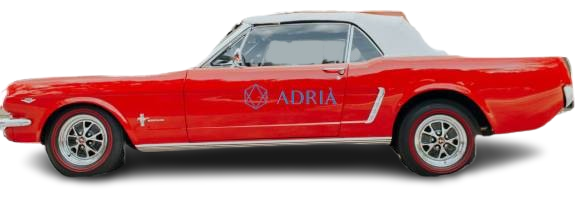
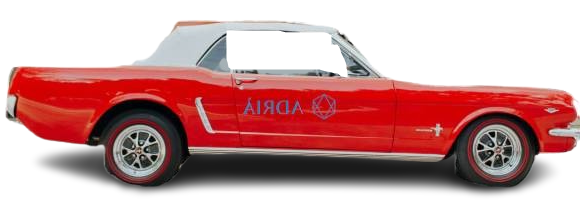
Afegir css amb el gif movent-se

diff --git a/css/style.css b/css/style.css
@@ -1,10 +1,34 @@
-html, body {
-    height: 100%;
-    max-width: 1200px;
-    margin: 2% auto;
-    padding: 0;
+body {
+    margin: 0;
+    overflow: hidden;
 }
 
-h1 {
-    font-size: 2em;
+#ex1 {
+    width: 100vw; /* Ancho del 100% del viewport (pantalla) */
+    height: auto;
+    position: relative;
+    overflow: hidden;
+}
+
+#ex1 img:nth-child(2) {
+    position: absolute;
+    bottom: 0;
+    left: 0;
+    animation: moveCar 4s linear infinite;
+    width: 40%; /* Ajusta el ancho según sea necesario */
+}
+
+@keyframes moveCar {
+    0% {
+        transform: translateX(-120%); /* Inicia fuera del panel para que no aparezca abruptamente */
+    }
+    100% {
+        transform: translateX(120%); /* Ajusta según el ancho del panel */
+    }
+}
+
+/* Ajusta el tamaño según sea necesario */
+#ex1 img:nth-child(2) {
+    max-width: 100%;
+    height: auto;
 }

diff --git a/index.html b/index.html
@@ -12,9 +12,11 @@
     <h2>Exercici 1</h2>
     <div id="ex1">
         <img src="img/banner.jpg" alt="">
-        <img src="img/carEditado.jpg" alt="">
+        <img src="img/car.gif" alt="">
     </div>
     <h2>Exercici 2</h2>
-    <div id="ex2">Implementeu aquí l'exercici 2</div>
+    <div id="ex2">
+        
+    </div>
 </body>
 </html>
